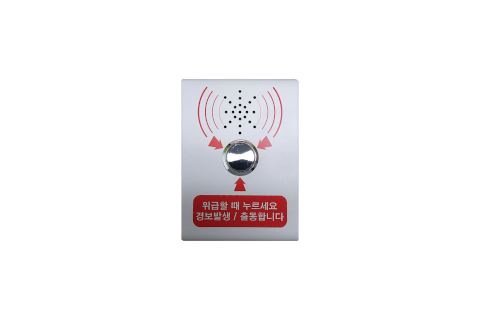
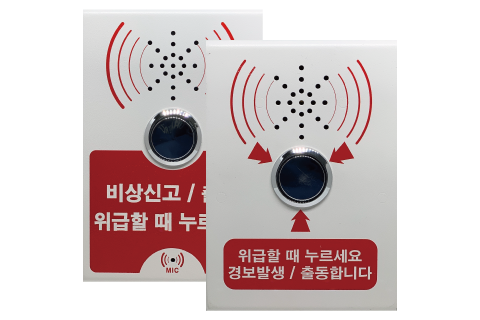
em-e-bell update 20210806

diff --git a/content/ko/products/em-bell/index.md b/content/ko/products/em-bell/index.md
@@ -57,64 +57,59 @@ image:
 <tr>
 <th colspan="2">모델명</th>
 <th>EM-E-BELL</th>
+<th>EM-E-BELL-VOICE</th>
 </tr>
 </thead>
 <tbody>
 <tr>
 <th rowspan="2">네트워크</th>
 <th>전송속도</th>
-<td>10/100Mbps</td>
+<td colspan="2">10/100Mbps</td>
 </tr>
 <tr>
 <th>전송규격</th>
-<td>IEEE802.3af/at</td>
+<td colspan="2">IEEE802.3af/at</td>
 </tr>
 <tr>
-<th rowspan="2">PoE 출력</th>
-<th>PoE 연결시</th>
-<td>45~55V, 8W</td>
+<th colspan="2">PoE 출력</th>
+<td colspan="2">45~55V, 15W</td>
 </tr>
 <tr>
-<th>PoE+ 연결시</th>
-<td>45~55V, 15W</td>
+<th colspan="2">경고음</th>
+<td colspan="2">100dB@ 12V, 경고음 작동시간 조절가능</td>
 </tr>
 <tr>
-<th rowspan="3">MIC</th>
-<th>입력</th>
-<td>Condensor MIC</td>
+<th colspan="2">버튼</th>
+<td colspan="2">Red LED 버튼, 작동 시 깜빡임</td>
 </tr>
 <tr>
-<th>출력</th>
-<td>0.5W</td>
+<th colspan="2">원격제어</th>
+<td colspan="2">Bluetooth LE, Remote switch, Up to 15M</td>
 </tr>
 <tr>
-<th>볼륨제어</th>
-<td>지원</td>
+<th colspan="2">알람</th>
+<td colspan="2">Dry contact(rating 12V 1A)</td>
 </tr>
 <tr>
-<th rowspan="2">Speaker</th>
-<th>출력</th>
-<td>15W</td>
+<th colspan="2">마이크</th>
+<td>Not suppot</td>
+<td>Built-in microphone</td>
 </tr>
 <tr>
-<th>볼륨제어</th>
-<td>지원</td>
+<th colspan="2">동작 온도/습도</th>
+<td colspan="2">+5℃~+40℃ / 0% ~ 90%</td>
 </tr>
 <tr>
-<th colspan="2">동작 온도 / 습도</th>
-<td>+5℃~+40℃ / 0% ~ 90%</td>
-</tr>
-<tr>
-<th colspan="2">사용전원 / 소비전력</th>
-<td>PoE</td>
+<th colspan="2">사용전원/소비전력</th>
+<td colspan="2">PoE</td>
 </tr>
 <tr>
 <th colspan="2">크기(W x H x D)</th>
-<td>84(W) x35(H) x 138(D) mm</td>
+<td colspan="2">120(W) x 170(H) x 42(D) mm</td>
 </tr>
 <tr>
 <th colspan="2">중량</th>
-<td>Approx. 300g</td>
+<td colspan="2">Approx. 300 kg</td>
 </tr>
 </tbody>
 </table>
@@ -128,8 +123,8 @@ image:
 
 종류 | 파일
 ---- | ----
-카탈로그 | [BELL_카탈로그_20200313.pdf](https://www.emstone.com/data/sales/ko/BELL_카탈로그_20200313.pdf)
-외관도 | [BELL_외관도_20200313.png](https://www.emstone.com/data/sales/ko/BELL_외관도_20200313.png)
-사양서 | [BELL_사양서_20200313.xlsx](https://www.emstone.com/data/sales/ko/BELL_사양서_20200313.xlsx)
-시방서 | [BELL_시방서_20200313.hwp](https://www.emstone.com/data/sales/ko/BELL_시방서_20200313.hwp)
-인증서 | [BELL_방송통신기자재등의적합등록필증_20191115.pdf](https://www.emstone.com/data/sales/ko/BELL_방송통신기자재등의적합등록필증_20191115.pdf)<br>[BELL_방송통신기자재등(전자파적합성)시험성적서_20191111.pdf](https://www.emstone.com/data/sales/ko/BELL_방송통신기자재등(전자파적합성)시험성적서_20191111.pdf)
+카탈로그 | [EM-E-BELL_카탈로그_20210806.pdf](https://www.emstone.com/data/sales/ko/EM-E-BELL_카탈로그_20210806.pdf)
+외관도 | [EM-E-BELL_외관도_20210806.dwg](https://www.emstone.com/data/sales/ko/EM-E-BELL_외관도_20210806.dwg)<br>[EM-E-BELL_외관도_20210806.png](https://www.emstone.com/data/sales/ko/EM-E-BELL_외관도_20210806.png)
+사양서 | [EM-E-BELL_사양서_20210806.xlsx](https://www.emstone.com/data/sales/ko/EM-E-BELL_사양서_20210806.xlsx)
+시방서 | [EM-E-BELL_시방서_20210806.hwp](https://www.emstone.com/data/sales/ko/EM-E-BELL_시방서_20210806.hwp)<br>[EM-E-BELL-VOICE_시방서_20210806.hwp](https://www.emstone.com/data/sales/ko/EM-E-BELL-VOICE_시방서_20210806.hwp)
+인증서 | [EM-E-BELL_방송통신기자재등의적합등록필증_20210806.pdf](https://www.emstone.com/data/sales/ko/EM-E-BELL_방송통신기자재등의적합등록필증_20210806.pdf)<br>[EM-E-BELL_방송통신기자재등(전자파적합성)시험성적서_20210806.pdf](https://www.emstone.com/data/sales/ko/EM-E-BELL_방송통신기자재등(전자파적합성)시험성적서_20210806.pdf)
